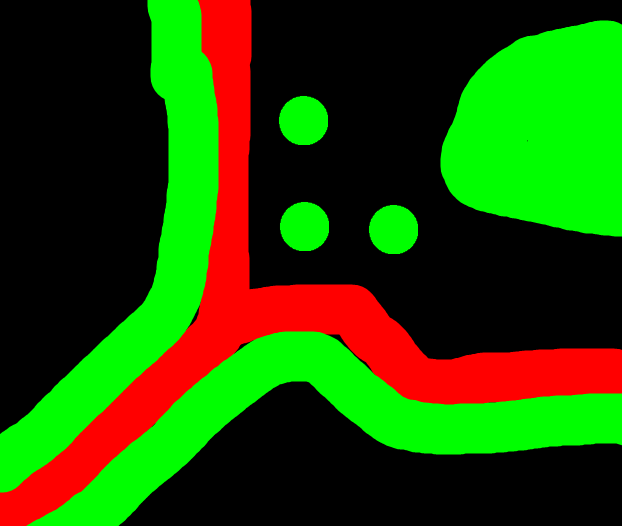
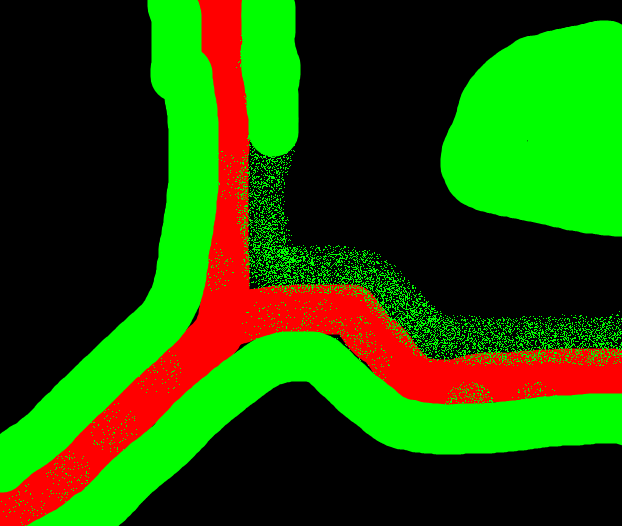
Multitextura
MultiTextura terminada, pensar en el heightMap y empezar la carga masiva de modelos

Changed region(s): [[0.3666, 0.0, 1.0, 0.6996], [0.7331, 0.73, 0.7942, 0.7605]]

diff --git a/Ejemplo3/graphicsclass.cpp b/Ejemplo3/graphicsclass.cpp
@@ -47,8 +47,14 @@ bool GraphicsClass::Initialize(OpenGLClass* OpenGL, HWND hwnd)
 	//Son 2 texturas
 	//Cambiar textura 2, 
 	//Ver clase de multitextura
-	terreno = new Terreno (hwnd, m_OpenGL, L"Terreno.jpg", L"Piedras.jpg", L"Piedras_normal.jpg", L"Terreno2.jpg", L"Terreno2Normal.jpg", L"MapaColores.png",
-		(float)600, (float)600, 0, 1, 4, 5, 6);
+	//El 6 es el blendMap
+	//7 y 8 las 3 textura y su normal
+	terreno = new Terreno(hwnd, m_OpenGL, L"Terreno.jpg", 
+		L"Piedras.jpg", L"Piedras_normal.jpg", 
+		L"Terreno2.jpg", L"Terreno2Normal.jpg",
+		L"Zacatito.jpg", L"ZacatitoNorm.jpg",
+		L"MapaColores.png",
+		(float)600, (float)600, 0, 1, 4, 5, 6, 7, 8);
 
 	// Create the light shader object.
 	m_LightShader = new LightShaderClass((char*)"light.vs", (char*)"light.ps");
@@ -275,7 +281,9 @@ bool GraphicsClass::Render(float rotation)
 	m_LightShader->Pon1Entero(m_OpenGL, (char*)"shaderTexture2", 1);
 	m_LightShader->Pon1Entero(m_OpenGL, (char*)"shaderTexture3", 4);
 	m_LightShader->Pon1Entero(m_OpenGL, (char*)"shaderTexture4", 5);
-	m_LightShader->Pon1Entero(m_OpenGL, (char*)"BlendMap", 6);
+	m_LightShader->Pon1Entero(m_OpenGL, (char*)"shaderTexturePasto", 6);
+	m_LightShader->Pon1Entero(m_OpenGL, (char*)"shaderTexturePastoNormal", 7);
+	m_LightShader->Pon1Entero(m_OpenGL, (char*)"BlendMap", 8);
 	m_LightShader->PonVec3(m_OpenGL, (char*)"lightDirection", lightDirection);
 	m_LightShader->PonVec4(m_OpenGL, (char*)"diffuseLightColor", diffuseLightColor);
 	// Render the model using the light shader.

diff --git a/Ejemplo3/Terreno.h b/Ejemplo3/Terreno.h
@@ -21,8 +21,11 @@ public:
 	unsigned int planoTextura;
 	unsigned int m_textureID;
 
-	Terreno(HWND hWnd, OpenGLClass* OpenGL, const wchar_t* alturas, const wchar_t* textura, const wchar_t* textura2, const wchar_t* textura3, const wchar_t* textura4,const wchar_t* blendMap, 
-		float ancho, float prof, int numtext, int numtext2, int numtext3, int numtext4, int blendId) 
+	Terreno(HWND hWnd, OpenGLClass* OpenGL, const wchar_t* alturas, const wchar_t* textura, const wchar_t* textura2, 
+		const wchar_t* textura3, const wchar_t* textura4, 
+		const wchar_t* textura5, const wchar_t* textura6,
+		const wchar_t* blendMap,
+		float ancho, float prof, int numtext, int numtext2, int numtext3, int numtext4, int numtext5, int numtext6, int blendId)
 	{
 		anchof = ancho;
 		proff = prof;
@@ -93,6 +96,8 @@ public:
 		EnviaTextura(hWnd, OpenGL, textura2, numtext2);
 		EnviaTextura(hWnd, OpenGL, textura3, numtext3);
 		EnviaTextura(hWnd, OpenGL, textura4, numtext4);
+		EnviaTextura(hWnd, OpenGL, textura5, numtext5);
+		EnviaTextura(hWnd, OpenGL, textura6, numtext6);
 		EnviaTextura(hWnd, OpenGL, blendMap, blendId);
 		//Carga(textura);
 		//// Set the unique texture unit in which to store the data.
